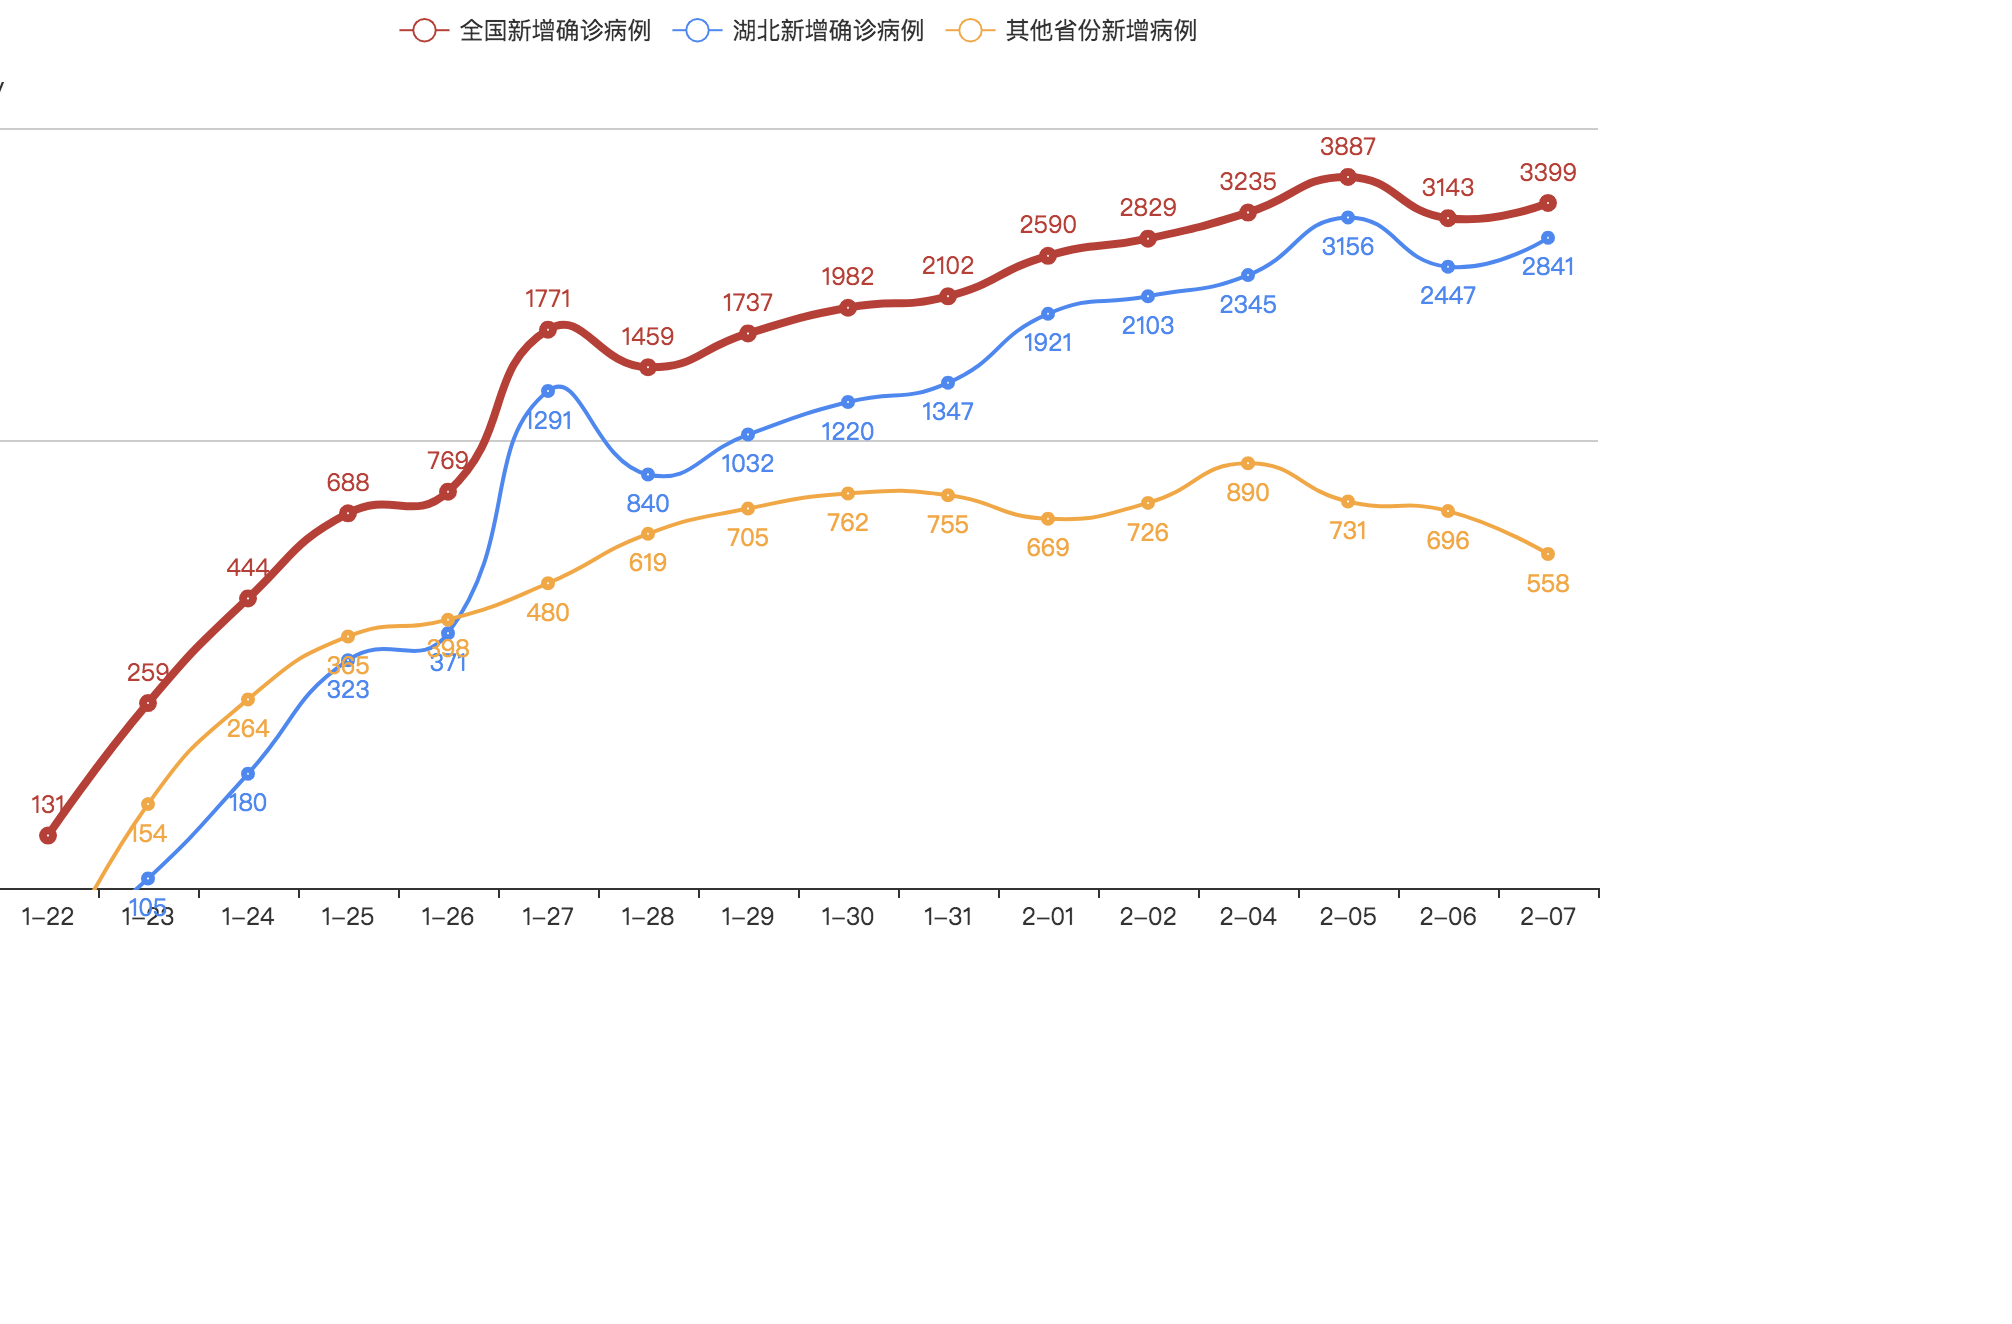
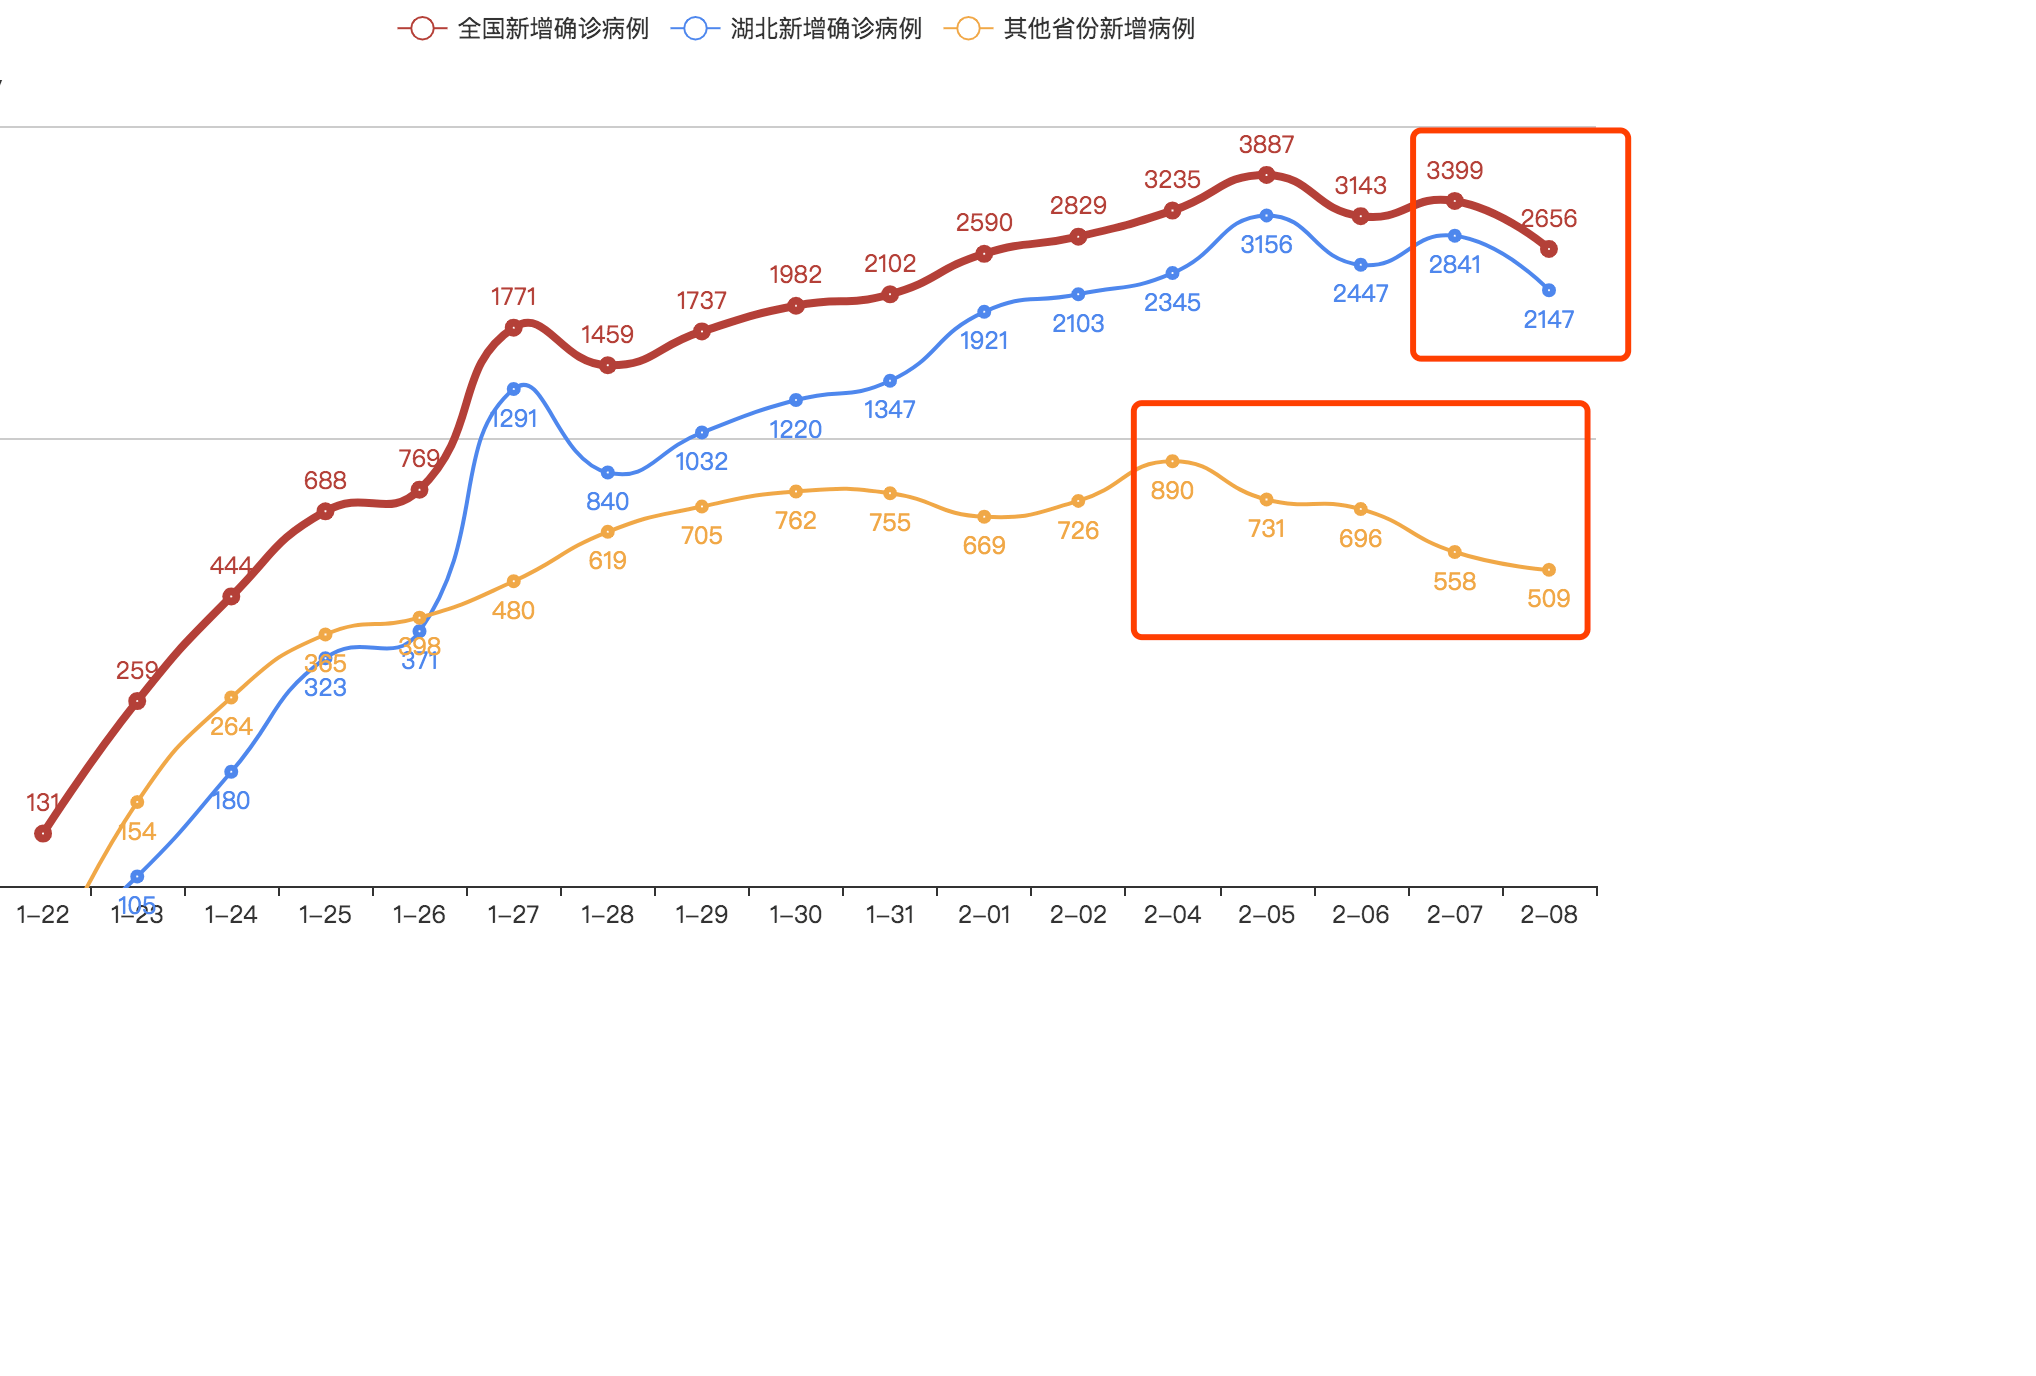
update result

Changed region(s): [[0.0, 0.0929, 0.8012, 0.7122], [0.1849, 0.0, 0.6163, 0.031]]

diff --git a/main.py b/main.py
@@ -92,9 +92,9 @@ def get_html(month, day):
 
 def draw_tendency(month, day):
     dates = ['1-22', '1-23', '1-24', '1-25', '1-26', '1-27', '1-28',
-             '1-29', '1-30', '1-31', '2-01', '2-02', '2-04', '2-05', '2-06', '2-07']
-    v0 = [131, 259, 444, 688, 769, 1771, 1459, 1737, 1982, 2102, 2590, 2829, 3235, 3887, 3143, 3399]
-    v1 = [69, 105, 180, 323, 371, 1291, 840, 1032, 1220, 1347, 1921, 2103, 2345, 3156, 2447, 2841]
+             '1-29', '1-30', '1-31', '2-01', '2-02', '2-04', '2-05', '2-06', '2-07', '2-08']
+    v0 = [131, 259, 444, 688, 769, 1771, 1459, 1737, 1982, 2102, 2590, 2829, 3235, 3887, 3143, 3399, 2656]
+    v1 = [69, 105, 180, 323, 371, 1291, 840, 1032, 1220, 1347, 1921, 2103, 2345, 3156, 2447, 2841, 2147]
     v2 = [v0[i] - v1[i] for i in range(len(v0))]
 
     c = (
@@ -249,8 +249,8 @@ def draw_multiple_pie(month, day):
 
 
 if __name__ == '__main__':
-    m, d = 2, 8
-    # get_html(m, d)
+    m, d = 2, 9
+    get_html(m, d)
     draw_tendency(m, d)
-    # draw_multiple_pie(m, d)
-    # draw_multiple_map(m, d)
+    draw_multiple_pie(m, d)
+    draw_multiple_map(m, d)

diff --git a/README.md b/README.md
@@ -12,6 +12,7 @@
 - 更新：2020.2.06 08:16 （1）修复了爬数据会不稳定地挂掉的问题；（2）增加get_default_pieces()方法，可以自定义地图中的颜色和感染范围。
 - 更新：2020.2.07 08:34 今天凌晨李文亮医生过世了，希望天堂没有病痛。
 - 更新：2020.2.08 08:31 除湖北省外，其他省份的新增确诊已经连续四天在下降了。湖北加油！
+- 更新：2020.2.09 09:01 今天湖北省的新增确诊也明显下降了，其他省份也持续在降，开心啊
 
 # 全国/各省份疫情地图
 ![image](https://github.com/shadow12138/WuHanGanBaDei/blob/master/result/r1.png)
